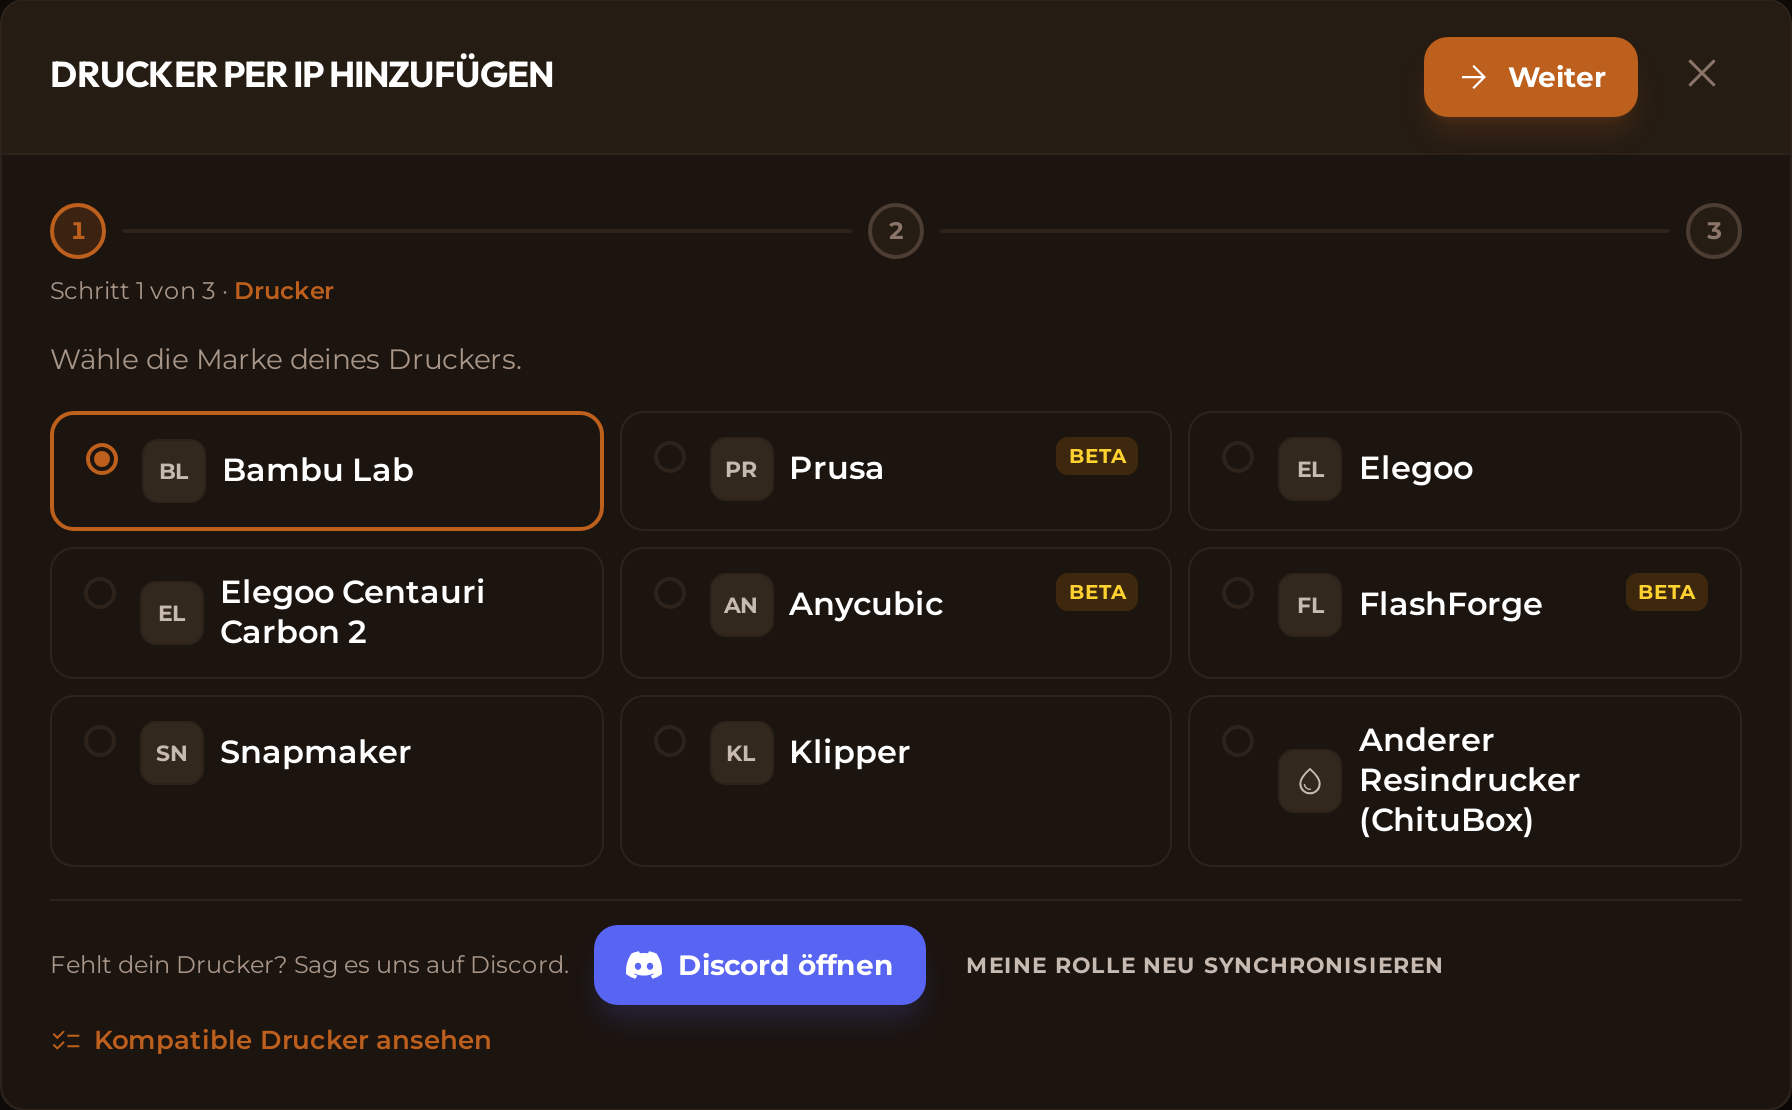
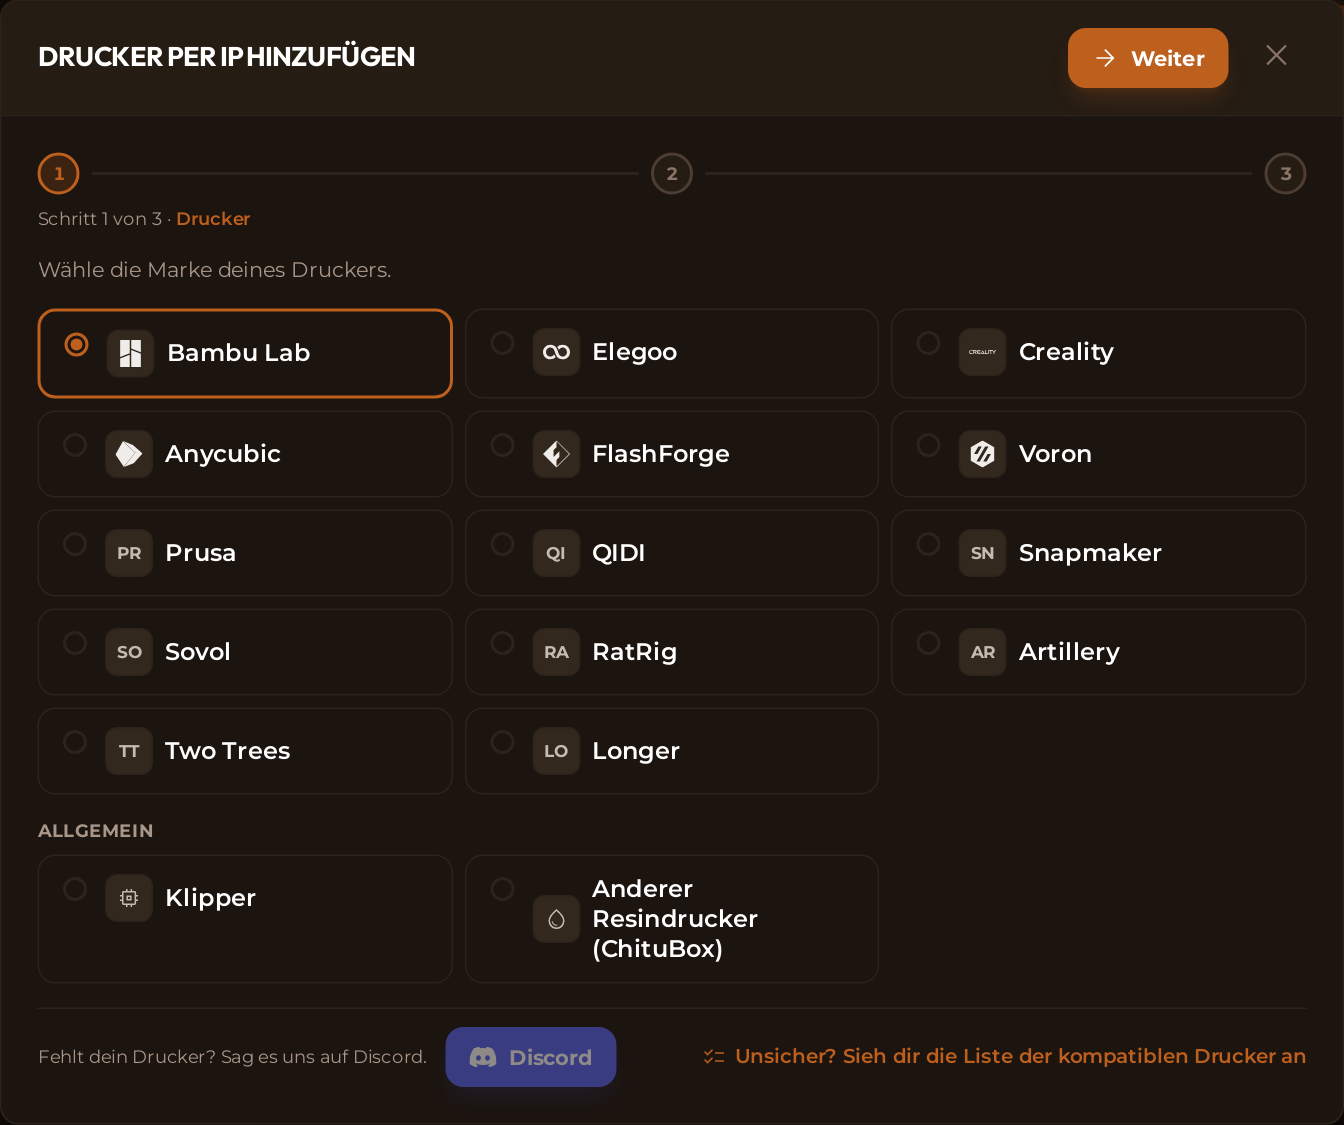
docs(posts): agente local con Añadir por IP de una tarjeta por marca y sin la etiqueta beta en Prusa y FlashForge

diff --git a/posts/2026-09-08-impresoras-red-local-agente/de.md b/posts/2026-09-08-impresoras-red-local-agente/de.md
@@ -3,7 +3,7 @@ slug: connect-printers-local-network-agent
 title: "Verbinde deine Drucker über dein eigenes Netzwerk: der lokale Agent, Schritt für Schritt"
 description: Bambu Lab, Prusa, Elegoo, Anycubic, FlashForge, Snapmaker, Klipper … Ein kleiner Agent auf einem Rechner in der Werkstatt, deine ganze Flotte in BolloPrint, und am Router änderst du nichts.
 date: 2026-10-12
-updated: 2026-10-14
+updated: 2026-10-16
 tags: [anleitungen]
 cover: 01-portada.webp
 ---
@@ -143,10 +143,16 @@ hinzufügen**. Das geht in drei Schritten.
 
 ### 1. Wähl die Marke
 
-Wähl die Marke deines Druckers. Die, die noch getestet werden, tragen das Etikett
-**Beta**. Wenn du nicht sicher bist, ob dein Modell unterstützt wird, findest du
-unten **Kompatible Drucker ansehen**; und wenn dein Drucker fehlt, sag es uns auf
-Discord.
+Wähl die Marke deines Druckers: Jede hat ihre eigene Karte, und die mit Logo
+stehen vorn. Wie deine Maschine kommuniziert, musst du nicht wissen; darum
+kümmern wir uns. Wählst du **Elegoo**, fragen wir **Welchen Elegoo hast du?**,
+weil es mehrere Familien gibt. **Klipper** und **Anderer Resindrucker (ChituBox)**
+stehen am Ende unter **Allgemein**, für einen Eigenbau oder eine Marke, die nicht
+in der Liste steht.
+
+Wenn du nicht sicher bist, ob dein Modell unterstützt wird, findest du unten
+**Unsicher? Sieh dir die Liste der kompatiblen Drucker an**; und wenn dein Drucker
+fehlt, sag es uns auf Discord.
 
 ![Der erste Schritt von Drucker per IP hinzufügen: die Marken, die du verbinden kannst](/blog/media/2026-09-08-impresoras-red-local-agente/08-anadir-marca-de.png)
 
@@ -198,11 +204,11 @@ kurz zusammengefasst:
 | Marke | Was du an der Maschine tun musst | Kamera | Kannst du pausieren und abbrechen? |
 |---|---|---|---|
 | **Bambu Lab** | Den **LAN-Modus** am Display einschalten (Einstellungen → Netzwerk) und den **LAN-Zugangscode** verwenden, den er dir anzeigt | Ja | Ja, wenn du zusätzlich den **Entwicklermodus** einschaltest |
-| **Prusa** (Beta: MK4, MK3.5, MK3.9, MINI, XL, CORE One) | **PrusaLink** einschalten und das **Passwort** verwenden, das er anzeigt (nicht das von Prusa Connect) | Noch nicht | Ja |
+| **Prusa** (MK4, MK3.5, MK3.9, MINI, XL, CORE One) | **PrusaLink** einschalten und das **Passwort** verwenden, das er anzeigt (nicht das von Prusa Connect) | Noch nicht | Ja |
 | **Elegoo** (Saturn, Mars, Jupiter, Centauri Carbon) und **andere Resindrucker (ChituBox)** | Nichts, sie fragen nach keinem Passwort | Bei den Modellen, die eine haben | Ja |
 | **Elegoo Centauri Carbon 2** | Nichts; nur wenn du am Display einen Code festgelegt hast, gib ihn ein | Ja | Noch nicht |
 | **Anycubic** (Beta: Kobra 3, Kobra S1, Kobra 4, Kobra X) | Den **LAN-Modus** einschalten (Einstellungen → Netzwerk). Dann nutzt der Drucker die Cloud und die App von Anycubic nicht mehr | Noch nicht | Noch nicht |
-| **FlashForge** (Beta: Adventurer 5M, 5M Pro, AD5X, Creator 5) | **LAN Only** einschalten und den Prüfcode aus seinem Netzwerkmenü verwenden | Ja | Noch nicht |
+| **FlashForge** (Adventurer 5M, 5M Pro, AD5X, Creator 5) | **LAN Only** einschalten und den Prüfcode aus seinem Netzwerkmenü verwenden | Ja | Noch nicht |
 | **Snapmaker** (U1) | Nichts | Ja | Ja |
 | **Klipper** (QIDI, Sovol, Voron, RatRig, Creality K1 …) | Meist nichts: nur wenn du in Moonraker einen API-Schlüssel gesetzt hast | Ja, wenn dein Klipper eine Webcam hat | Ja |
 

diff --git a/posts/2026-09-08-impresoras-red-local-agente/it.md b/posts/2026-09-08-impresoras-red-local-agente/it.md
@@ -3,7 +3,7 @@ slug: connect-printers-local-network-agent
 title: "Collega le tue stampanti tramite la tua rete: l'agente locale, passo passo"
 description: Bambu Lab, Prusa, Elegoo, Anycubic, FlashForge, Snapmaker, Klipper… Un piccolo agente su un computer del laboratorio, tutto il tuo parco macchine dentro BolloPrint e senza toccare il router.
 date: 2026-10-12
-updated: 2026-10-14
+updated: 2026-10-16
 tags: [tutorial]
 cover: 01-portada.webp
 ---
@@ -134,9 +134,15 @@ e comandi se quella macchina li ha. Premi **Aggiungi per IP**. Sono tre passi.
 
 ### 1. Scegli la marca
 
-Scegli la marca della tua stampante. Quelle ancora in prova hanno l'etichetta
-**beta**. Se non sei sicuro che il tuo modello vada bene, in fondo hai **Vedi le
-stampanti compatibili**; e se la tua stampante non c'è, diccelo su Discord.
+Scegli la marca della tua stampante: ognuna ha la sua scheda, e quelle con il logo
+vengono prima. Non serve sapere come comunica la tua macchina: ci pensiamo noi.
+Se scegli **Elegoo**, ti chiediamo **Quale Elegoo hai?**, perché ha più famiglie.
+**Klipper** e **Altra a resina (ChituBox)** sono in fondo, in **Generiche**, per una
+macchina autocostruita o una marca che non è nell'elenco.
+
+Se non sei sicuro che il tuo modello vada bene, in fondo hai **Non ne sei sicuro?
+Guarda l’elenco delle compatibili**; e se la tua stampante non c'è, diccelo su
+Discord.
 
 ![Il primo passo di Aggiungi stampante per IP: le marche che puoi collegare](/blog/media/2026-09-08-impresoras-red-local-agente/08-anadir-marca-it.png)
 
@@ -186,11 +192,11 @@ un'impostazione del router, non di BolloPrint.
 | Marca | Cosa devi fare sulla macchina | Telecamera | Puoi mettere in pausa e annullare? |
 |---|---|---|---|
 | **Bambu Lab** | Attivare la **Modalità LAN** dal suo schermo (Impostazioni → Rete) e usare il **codice di accesso LAN** che ti mostra | Sì | Sì, se attivi anche la **Modalità sviluppatore** |
-| **Prusa** (beta: MK4, MK3.5, MK3.9, MINI, XL, CORE One) | Attivare **PrusaLink** e usare la **password** che mostra (non è quella di Prusa Connect) | Non ancora | Sì |
+| **Prusa** (MK4, MK3.5, MK3.9, MINI, XL, CORE One) | Attivare **PrusaLink** e usare la **password** che mostra (non è quella di Prusa Connect) | Non ancora | Sì |
 | **Elegoo** (Saturn, Mars, Jupiter, Centauri Carbon) e **altre a resina (ChituBox)** | Niente, non chiedono password | Nei modelli che ce l'hanno | Sì |
 | **Elegoo Centauri Carbon 2** | Niente; solo se le hai impostato un codice dal suo schermo, scrivilo | Sì | Non ancora |
 | **Anycubic** (beta: Kobra 3, Kobra S1, Kobra 4, Kobra X) | Attivare la **Modalità LAN** (Impostazioni → Rete). Così la stampante smette di usare il cloud e l'app di Anycubic | Non ancora | Non ancora |
-| **FlashForge** (beta: Adventurer 5M, 5M Pro, AD5X, Creator 5) | Attivare **LAN Only** e usare il codice di verifica del suo menu di rete | Sì | Non ancora |
+| **FlashForge** (Adventurer 5M, 5M Pro, AD5X, Creator 5) | Attivare **LAN Only** e usare il codice di verifica del suo menu di rete | Sì | Non ancora |
 | **Snapmaker** (U1) | Niente | Sì | Sì |
 | **Klipper** (QIDI, Sovol, Voron, RatRig, Creality K1…) | Di solito niente: solo se hai impostato una chiave API in Moonraker | Sì, se hai una webcam sul tuo Klipper | Sì |
 

diff --git a/posts/2026-09-08-impresoras-red-local-agente/es.md b/posts/2026-09-08-impresoras-red-local-agente/es.md
@@ -3,7 +3,7 @@ slug: connect-printers-local-network-agent
 title: "Conecta tus impresoras por tu propia red: el agente local, paso a paso"
 description: Bambu Lab, Prusa, Elegoo, Anycubic, FlashForge, Snapmaker, Klipper… Un agente pequeño en un equipo del taller, toda tu flota dentro de BolloPrint y sin tocar el router.
 date: 2026-10-12
-updated: 2026-10-14
+updated: 2026-10-16
 tags: [tutoriales]
 cover: 01-portada.webp
 ---
@@ -134,9 +134,14 @@ con mandos si esa máquina los tiene. Pulsa **Añadir por IP**. Son tres pasos.
 
 ### 1. Elige la marca
 
-Elige la marca de tu impresora. Las que todavía están en pruebas llevan la
-etiqueta **beta**. Si dudas de si tu modelo vale, abajo tienes **Ver impresoras
-compatibles**; y si tu impresora no está, cuéntanoslo en Discord.
+Elige la marca de tu impresora: cada una tiene su tarjeta, y las que tienen logo
+van primero. No hace falta que sepas cómo se comunica tu máquina; de eso nos
+encargamos nosotros. Si eliges **Elegoo**, te preguntamos **¿Qué Elegoo tienes?**,
+porque tiene varias familias. **Klipper** y **Otra de resina (ChituBox)** están al
+final, en **Genéricas**, para un montaje propio o una marca que no sale en la lista.
+
+Si dudas de si tu modelo vale, abajo tienes **¿No lo tienes claro? Mira la lista
+de compatibles**; y si tu impresora no está, cuéntanoslo en Discord.
 
 ![El primer paso de Añadir impresora por IP: las marcas que se pueden conectar](/blog/media/2026-09-08-impresoras-red-local-agente/08-anadir-marca-es.png)
 
@@ -186,11 +191,11 @@ Aquí es donde surgen más dudas. Es lo mismo que te recuerda el paso 2, en resu
 | Marca | Qué tienes que hacer en la máquina | Cámara | ¿Puedes pausar y cancelar? |
 |---|---|---|---|
 | **Bambu Lab** | Activar el **Modo LAN** en su pantalla (Ajustes → Red) y usar el **código de acceso LAN** que te enseña | Sí | Sí, si además activas el **Modo desarrollador** |
-| **Prusa** (beta: MK4, MK3.5, MK3.9, MINI, XL, CORE One) | Activar **PrusaLink** y usar la **contraseña** que muestra (no es la de Prusa Connect) | Todavía no | Sí |
+| **Prusa** (MK4, MK3.5, MK3.9, MINI, XL, CORE One) | Activar **PrusaLink** y usar la **contraseña** que muestra (no es la de Prusa Connect) | Todavía no | Sí |
 | **Elegoo** (Saturn, Mars, Jupiter, Centauri Carbon) y **otras de resina (ChituBox)** | Nada, no piden contraseña | En los modelos que la traen | Sí |
 | **Elegoo Centauri Carbon 2** | Nada; solo si le pusiste un código en su pantalla, escríbelo | Sí | Todavía no |
 | **Anycubic** (beta: Kobra 3, Kobra S1, Kobra 4, Kobra X) | Activar el **Modo LAN** (Ajustes → Red). Con él, la impresora deja de usar la nube y la app de Anycubic | Todavía no | Todavía no |
-| **FlashForge** (beta: Adventurer 5M, 5M Pro, AD5X, Creator 5) | Activar **LAN Only** y usar el código de verificación de su menú de red | Sí | Todavía no |
+| **FlashForge** (Adventurer 5M, 5M Pro, AD5X, Creator 5) | Activar **LAN Only** y usar el código de verificación de su menú de red | Sí | Todavía no |
 | **Snapmaker** (U1) | Nada | Sí | Sí |
 | **Klipper** (QIDI, Sovol, Voron, RatRig, Creality K1…) | Normalmente nada: solo si pusiste una clave de API en Moonraker | Sí, si tienes webcam en tu Klipper | Sí |
 

diff --git a/posts/2026-09-08-impresoras-red-local-agente/pt.md b/posts/2026-09-08-impresoras-red-local-agente/pt.md
@@ -3,7 +3,7 @@ slug: connect-printers-local-network-agent
 title: "Liga as tuas impressoras pela tua própria rede: o agente local, passo a passo"
 description: Bambu Lab, Prusa, Elegoo, Anycubic, FlashForge, Snapmaker, Klipper… Um agente pequeno num computador da oficina, toda a tua frota dentro do BolloPrint e sem mexer no router.
 date: 2026-10-12
-updated: 2026-10-14
+updated: 2026-10-16
 tags: [tutoriais]
 cover: 01-portada.webp
 ---
@@ -138,9 +138,15 @@ passos.
 
 ### 1. Escolhe a marca
 
-Escolhe a marca da tua impressora. As que ainda estão em testes têm a etiqueta
-**beta**. Se tens dúvidas se o teu modelo serve, em baixo tens **Ver impressoras
-compatíveis**; e se a tua impressora não estiver lá, diz-nos no Discord.
+Escolhe a marca da tua impressora: cada uma tem o seu cartão, e as que têm logótipo
+aparecem primeiro. Não precisas de saber como a tua máquina comunica: disso
+tratamos nós. Se escolheres **Elegoo**, perguntamos-te **Que Elegoo tens?**,
+porque tem várias famílias. **Klipper** e **Outra de resina (ChituBox)** estão no
+fim, em **Genéricas**, para uma máquina montada por ti ou uma marca que não está
+na lista.
+
+Se tens dúvidas se o teu modelo serve, em baixo tens **Não tens a certeza? Vê a
+lista de compatíveis**; e se a tua impressora não estiver lá, diz-nos no Discord.
 
 ![O primeiro passo de Adicionar impressora por IP: as marcas que podes ligar](/blog/media/2026-09-08-impresoras-red-local-agente/08-anadir-marca-pt.png)
 
@@ -190,11 +196,11 @@ falha. É uma configuração do router, não do BolloPrint.
 | Marca | O que tens de fazer na máquina | Câmara | Podes pausar e cancelar? |
 |---|---|---|---|
 | **Bambu Lab** | Ativar o **Modo LAN** no ecrã dela (Definições → Rede) e usar o **código de acesso LAN** que te mostra | Sim | Sim, se também ativares o **Modo programador** |
-| **Prusa** (beta: MK4, MK3.5, MK3.9, MINI, XL, CORE One) | Ativar o **PrusaLink** e usar a **palavra-passe** que mostra (não é a do Prusa Connect) | Ainda não | Sim |
+| **Prusa** (MK4, MK3.5, MK3.9, MINI, XL, CORE One) | Ativar o **PrusaLink** e usar a **palavra-passe** que mostra (não é a do Prusa Connect) | Ainda não | Sim |
 | **Elegoo** (Saturn, Mars, Jupiter, Centauri Carbon) e **outras de resina (ChituBox)** | Nada, não pedem palavra-passe | Nos modelos que a trazem | Sim |
 | **Elegoo Centauri Carbon 2** | Nada; só se lhe puseste um código no ecrã, escreve-o | Sim | Ainda não |
 | **Anycubic** (beta: Kobra 3, Kobra S1, Kobra 4, Kobra X) | Ativar o **Modo LAN** (Definições → Rede). Com ele, a impressora deixa de usar a nuvem e a app da Anycubic | Ainda não | Ainda não |
-| **FlashForge** (beta: Adventurer 5M, 5M Pro, AD5X, Creator 5) | Ativar o **LAN Only** e usar o código de verificação do menu de rede | Sim | Ainda não |
+| **FlashForge** (Adventurer 5M, 5M Pro, AD5X, Creator 5) | Ativar o **LAN Only** e usar o código de verificação do menu de rede | Sim | Ainda não |
 | **Snapmaker** (U1) | Nada | Sim | Sim |
 | **Klipper** (QIDI, Sovol, Voron, RatRig, Creality K1…) | Normalmente nada: só se puseste uma chave de API no Moonraker | Sim, se tiveres webcam no teu Klipper | Sim |
 

diff --git a/posts/2026-09-08-impresoras-red-local-agente/en.md b/posts/2026-09-08-impresoras-red-local-agente/en.md
@@ -3,7 +3,7 @@ slug: connect-printers-local-network-agent
 title: "Connect your printers over your own network: the local agent, step by step"
 description: Bambu Lab, Prusa, Elegoo, Anycubic, FlashForge, Snapmaker, Klipper… A small agent on a computer in your workshop, your whole fleet inside BolloPrint, and no need to touch the router.
 date: 2026-10-12
-updated: 2026-10-14
+updated: 2026-10-16
 tags: [tutorials]
 cover: 01-portada.webp
 ---
@@ -138,9 +138,15 @@ It takes three steps.
 
 ### 1. Choose the brand
 
-Pick your printer's brand. The ones still being tested carry a **beta** label. If
-you're not sure your model is supported, there's **See compatible printers** at
-the bottom; and if your printer isn't there, tell us on Discord.
+Pick your printer's brand: each one has its own card, and the ones with a logo
+come first. You don't need to know how your machine talks; we take care of that.
+If you pick **Elegoo**, we ask **Which Elegoo do you have?**, because it has
+several families. **Klipper** and **Other resin printer (ChituBox)** are at the
+end, under **Generic**, for a self-built machine or a brand that isn't on the list.
+
+If you're not sure your model is supported, there's **Not sure? See the list of
+compatible printers** at the bottom; and if your printer isn't there, tell us on
+Discord.
 
 ![The first step of Add printer by IP: the brands you can connect](/blog/media/2026-09-08-impresoras-red-local-agente/08-anadir-marca-en.png)
 
@@ -191,11 +197,11 @@ short:
 | Brand | What you have to do on the machine | Camera | Can you pause and cancel? |
 |---|---|---|---|
 | **Bambu Lab** | Turn on **LAN Mode** on its screen (Settings → Network) and use the **LAN access code** it shows you | Yes | Yes, if you also turn on **Developer Mode** |
-| **Prusa** (beta: MK4, MK3.5, MK3.9, MINI, XL, CORE One) | Turn on **PrusaLink** and use the **password** it shows (not your Prusa Connect one) | Not yet | Yes |
+| **Prusa** (MK4, MK3.5, MK3.9, MINI, XL, CORE One) | Turn on **PrusaLink** and use the **password** it shows (not your Prusa Connect one) | Not yet | Yes |
 | **Elegoo** (Saturn, Mars, Jupiter, Centauri Carbon) and **other resin printers (ChituBox)** | Nothing, they don't ask for a password | On the models that have one | Yes |
 | **Elegoo Centauri Carbon 2** | Nothing; only if you set a code on its screen, enter it | Yes | Not yet |
 | **Anycubic** (beta: Kobra 3, Kobra S1, Kobra 4, Kobra X) | Turn on **LAN Mode** (Settings → Network). With it on, the printer stops using Anycubic's cloud and app | Not yet | Not yet |
-| **FlashForge** (beta: Adventurer 5M, 5M Pro, AD5X, Creator 5) | Turn on **LAN Only** and use the check code from its network menu | Yes | Not yet |
+| **FlashForge** (Adventurer 5M, 5M Pro, AD5X, Creator 5) | Turn on **LAN Only** and use the check code from its network menu | Yes | Not yet |
 | **Snapmaker** (U1) | Nothing | Yes | Yes |
 | **Klipper** (QIDI, Sovol, Voron, RatRig, Creality K1…) | Usually nothing: only if you set an API key in Moonraker | Yes, if you have a webcam on your Klipper | Yes |
 

diff --git a/posts/2026-09-08-impresoras-red-local-agente/fr.md b/posts/2026-09-08-impresoras-red-local-agente/fr.md
@@ -3,7 +3,7 @@ slug: connect-printers-local-network-agent
 title: "Connectez vos imprimantes via votre propre réseau : l'agent local, pas à pas"
 description: Bambu Lab, Prusa, Elegoo, Anycubic, FlashForge, Snapmaker, Klipper… Un petit agent sur un ordinateur de l'atelier, tout votre parc dans BolloPrint, sans toucher à la box.
 date: 2026-10-12
-updated: 2026-10-14
+updated: 2026-10-16
 tags: [tutoriels]
 cover: 01-portada.webp
 ---
@@ -96,7 +96,9 @@ Vous n'y perdez rien : vous l'ajoutez vous-même et elle fonctionne exactement 
 
 ### 1. Choisissez la marque
 
-Choisissez la marque de votre imprimante. Celles qui sont encore en test portent l'étiquette **bêta**. Si vous doutez que votre modèle soit pris en charge, vous avez **Voir les imprimantes compatibles** en bas ; et si votre imprimante n'y est pas, dites-le-nous sur Discord.
+Choisissez la marque de votre imprimante : chacune a sa carte, et celles qui ont un logo viennent en premier. Inutile de savoir comment votre machine communique : nous nous en chargeons. Si vous choisissez **Elegoo**, nous vous demandons **Quelle Elegoo avez-vous ?**, car elle a plusieurs familles. **Klipper** et **Autre imprimante résine (ChituBox)** sont à la fin, dans **Génériques**, pour une machine montée par vos soins ou une marque absente de la liste.
+
+Si vous doutez que votre modèle soit pris en charge, vous avez **Vous hésitez ? Consultez la liste des compatibles** en bas ; et si votre imprimante n'y est pas, dites-le-nous sur Discord.
 
 ![La première étape d'Ajouter une imprimante par IP : les marques que vous pouvez connecter](/blog/media/2026-09-08-impresoras-red-local-agente/08-anadir-marca-fr.png)
 
